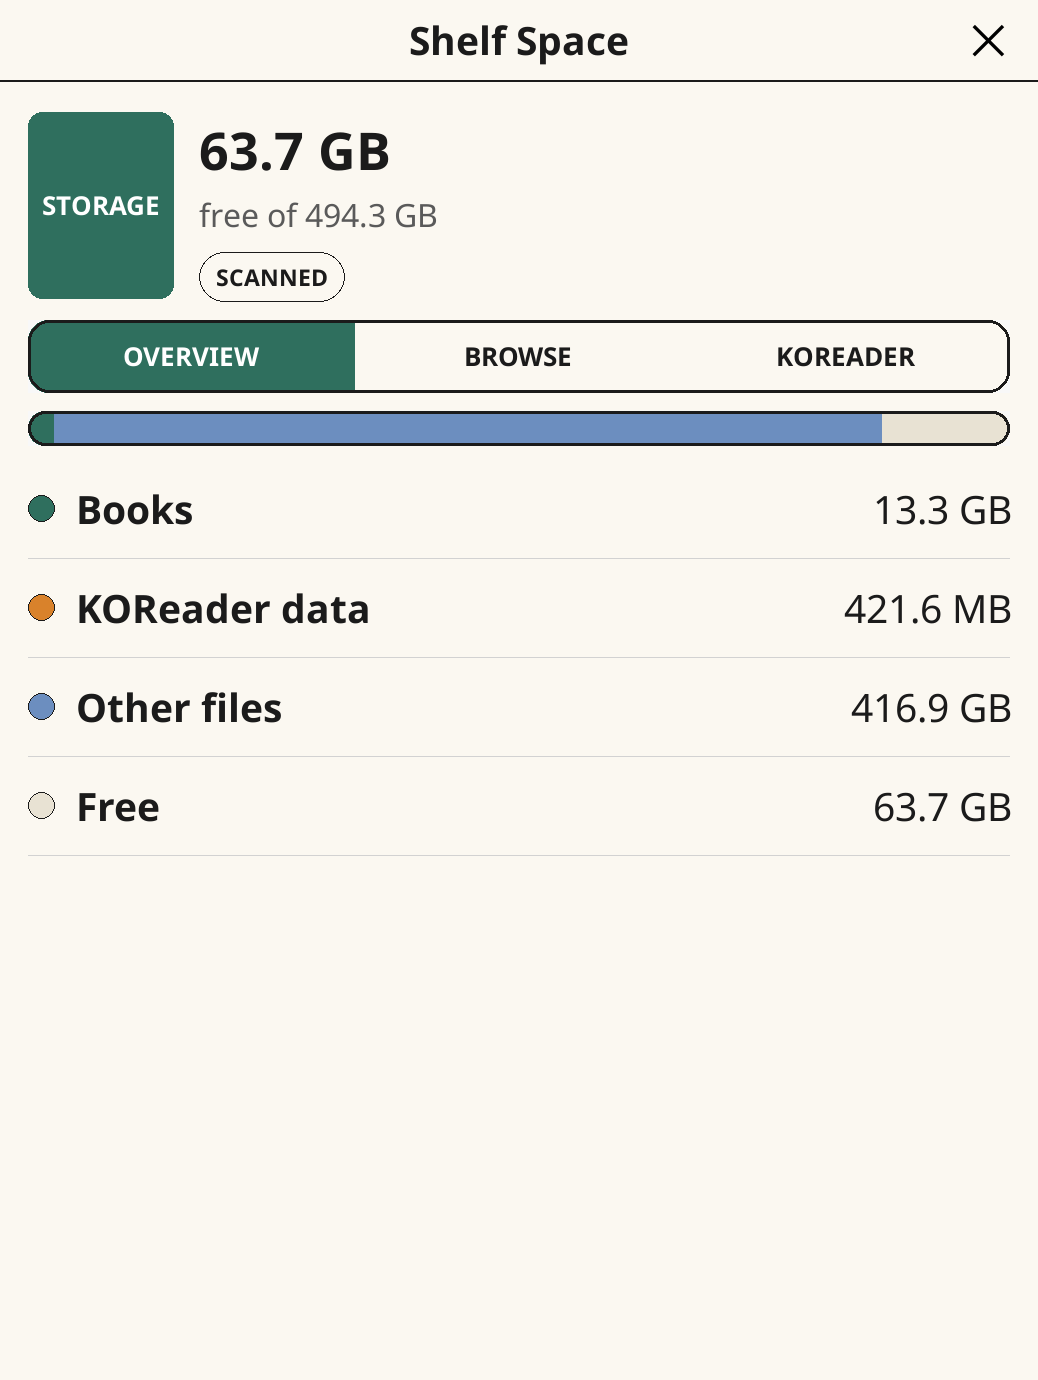
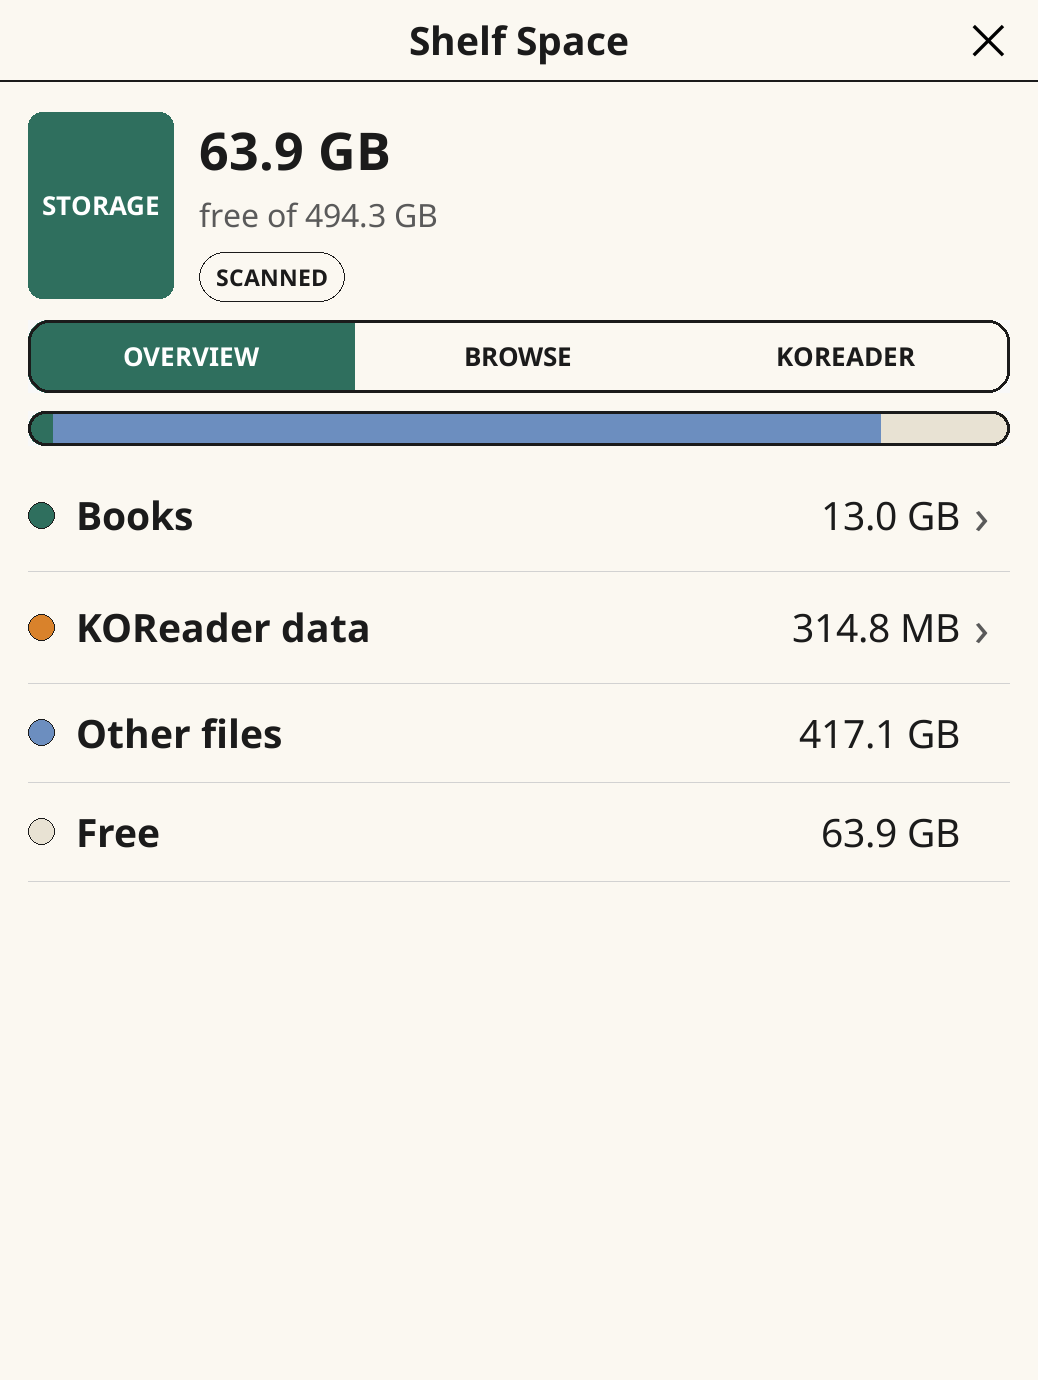
feat: Overview rows open their tab; fix: one dialog at a time (#6)
Books and KOReader data on the Overview open their tab. A second tap on Delete or Clear while a confirmation is up is ignored, and a file that is already gone counts as deleted. README Overview screenshot retaken.

diff --git a/README.md b/README.md
@@ -24,7 +24,7 @@ other screens get the grayscale version.
 Open **Tools › Shelf Space**. Three tabs:
 
 - **Overview**: free space, and where the rest went (books, KOReader data,
-  everything else).
+  everything else). Tap Books or KOReader data to jump to that tab.
 - **Browse**: your library, largest first, with a share bar per row. Tap a
   folder to open it; every row has its own **Delete** button, and you always
   get a confirmation first, including how many books lose their reading
